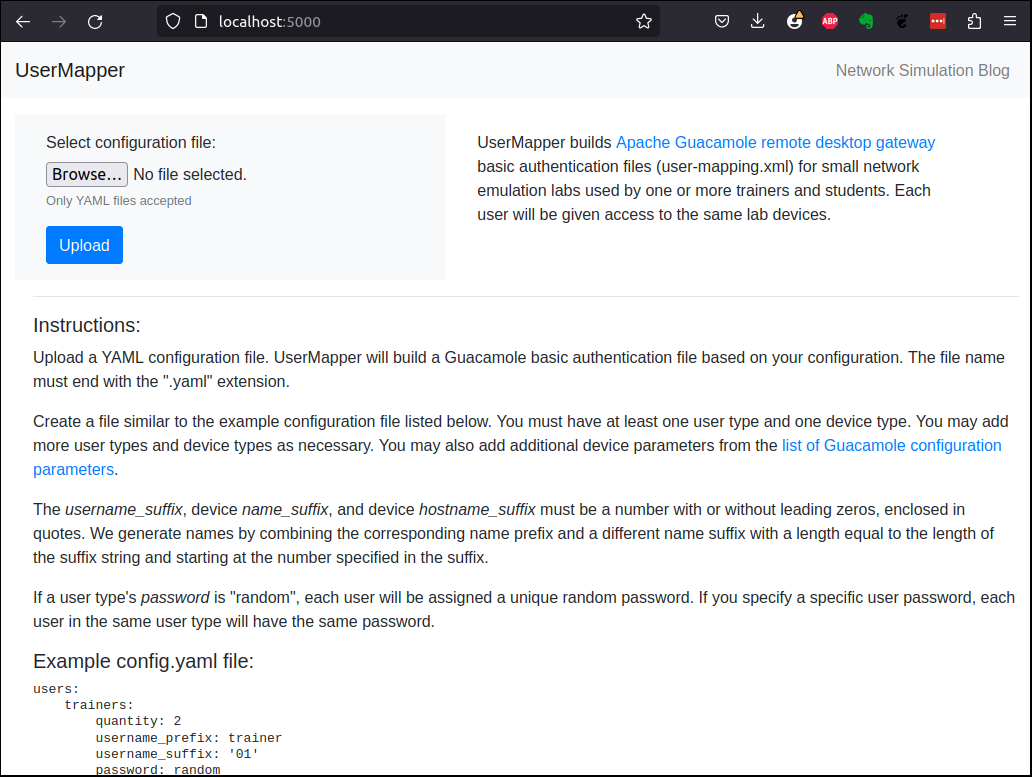
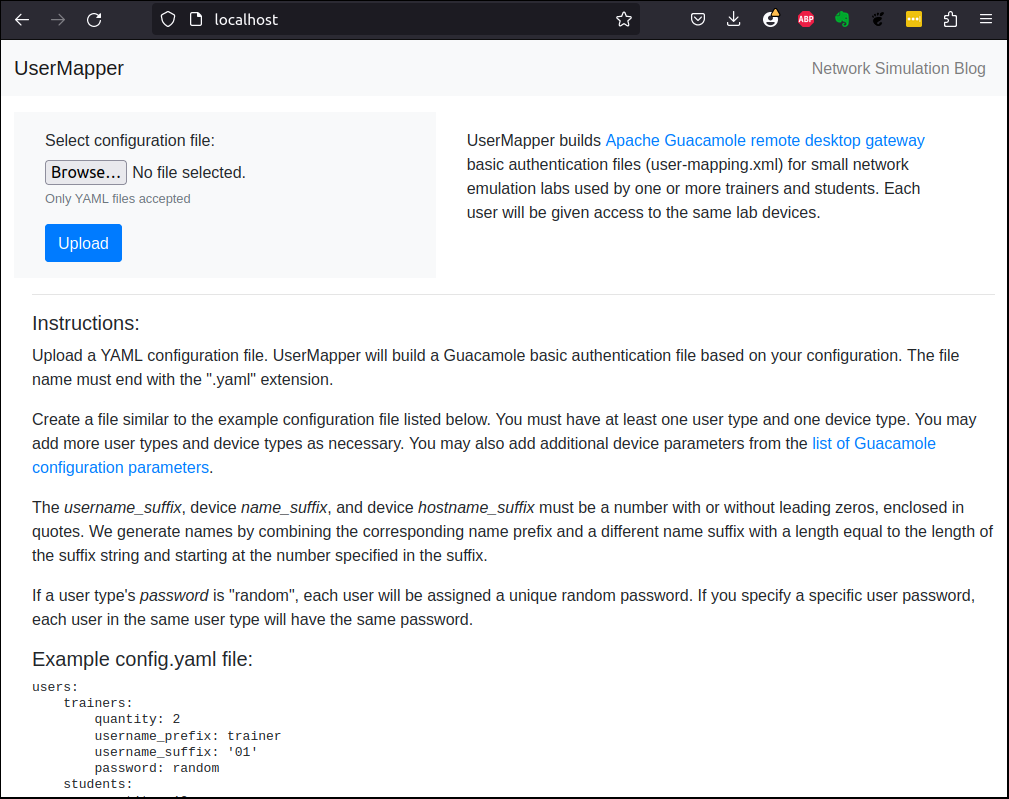
Added more material

diff --git a/content/drafts/usermapper-docker-deploy/python-docker-deploy.md b/content/drafts/usermapper-docker-deploy/python-docker-deploy.md
@@ -1,36 +1,49 @@
 title: Use Docker to Test and Deploy Python Web Apps
 slug: python-web-docker-deploy
 summary: Use Docker to test apps on your local PC and then use Docker to easily deploy them to a virtual private server (VPS)
-date: 2023-09-31
-modified: 2023-09-31
+date: 2023-09-30
+modified: 2023-09-30
 category: Docker
 <!--status: Published-->
 
-Take an existing Flask application, then test and deploy it using Docker containers.
+Using Docker containers to test an existing Flask application locally, and then use Docker to deploy it to a remote server.
 
-First get the first version of my [usermapper-web application]({filename}\articles\003-flask-web-app-tutorial\flask-web-app-tutorial.md) from Github
+## Test the existing web app
+
+First, get the first version of my [usermapper-web application]({filename}\articles\003-flask-web-app-tutorial\flask-web-app-tutorial.md) from Github. It's tagged as vesion 0.1 so run the following commands to get the application files.
 
 ```
 $ wget https://github.com/blinklet/usermapper-web/archive/refs/tags/v0.1.tar.gz
 $ tar -xvf v0.1.tar.gz
 ```
 
-Create a virtual environment:
+The application files will be uncompressed into a folder named *usermapper-web-0.1/*.
 
 ```bash
 $ cd usermapper-web-0.1
+$ ls
+application.py
+LICENSE
+README.md
+requirements.txt
+templates
+```
+
+Create a Python virtual environment in the same folder:
+
+```bash
 $ python3 -m venv env
 $ source env/bin/activate
 (env) $
 ```
 
-Install the dependencies
+Install the application's dependencies:
 
 ```bash
 (env) $ pip install -r requirements.txt
 ```
 
-The application needs two more things: a dotenv file and a *downloads* directory. The both the dotenv file and the *downloads* directory must be in the same location as the *application.py* file.
+The application needs two more things: a [dotenv file]({filename}/articles/011-use-environment-variables/use-environment-variables.md) and a *downloads* directory. The both the dotenv file and the *downloads* directory must be in the same location as the *application.py* file.
 
 Create the dotenv file, named *.env*, using your favorite text editor:
 
@@ -56,27 +69,56 @@ $ mkdir downloads
 Run the Flask app
 
 ```
-(env) $ python3 application.py
+(env) $ flask run
 ```
 
+Test the application. Enter the application's URL in a browser window. A Flask app like this should be running on the *localhost* loopback address on TCP port 5000:
+
+```text
+http://localhost:5000
+```
+
+The browser window should show the web app's first page:
+
+![Usermapper Web App running on local PC in development mode]({attach}usermapper-01.png)
+
+For more information about the web app and how to use it, either refer to the instructions on the web page or read [my web app tutorial post]({filename}/articles/003-flask-web-app-tutorial/flask-web-app-tutorial.md).
+
+After you finish testing the *usermapper-web* application, quit the Flask app by typing *CTRL-C* in the terminal window.
+
+And, deactivate the virtual environment:
+
+```bash
+(env) $ deactivate
+```
 
 
 ## Deploy existing application to Docker container
 
-Use Python container?
+
+
+In my webapp tutorial post, I described how to deploy the application to a Microsoft Azure web app service simply by copying a projects files and directories to an Azure web app. That remains a great way to deploy web apps, if you want to use Microsoft Azure's proprietary tools.
+
+In this post, I will show you a more general-purpose way to deploy a web app that will run anywhere, including on a virtual private server (VPS) started on any cloud provider. This requires that you take more responsibility for the way to package your application and for running other services that help serve and secure your application. You will have to add a production-ready WSGI server to your application's environment, add some Docker files in our project directory, and set up production environment variables.
+
+you will copy the application code to a Docker image that can be deployed either to a container running locally or one running on a remote server.
 
 ### Get files and set up virtual environment
 
+Create a new project directory and then copy the *usermapper-web* files into it:
+
 ```bash
-$ git clone https://github.com/blinklet/usermapper-web.git
+$ mkdir ../usermapper-web
+$ cp -r . ../usermapper-web
+$ cd ../usermapper-web
 ```
+
+
 ### Add gunicorn
 
-git tag -a v0.1 cf41112 -m "First development release"
+The current program uses the Flask development server to run the web app. You should not use the Flask development server on a real web deployment. Install a [production-ready WSGI server](https://flask.palletsprojects.com/en/2.3.x/deploying/), like [Gunicorn](https://gunicorn.org/). I like Gunicorn because it is a Python package, is easy to install, and is lightweight. 
 
-
-
-Don't use dev server in web deployment so run gunicorn, Add it to requirements.txt
+To install Gunicorn in the container image, add it to *requirements.txt* file. The contents of the file should now be the same as shown below.
 
 ```text
 wheel
@@ -88,22 +130,24 @@ gunicorn
 git+https://github.com/blinklet/usermapper.git@v0.3#egg=usermapper
 ```
 
-### Create .env file
+### Create a *.env* file
 
-Look at *.env.example* for inspiration
+The Flask frameworks needs some information from its environment so it knows which file to run. You can set environment variables on a server manually or you can store them in a file and access them using the Python *dotenv* package. If you cloned the *usermapper-web* project, you did not get the file, named *.env* that contains the environment variables for my version of the project. I do not keep the file in my repository because it contains a secret key.
+
+Flask uses a secret key, that should not be shared, to help secure functions like reading inputs from Flask forms. To create a random key for yourself, run the following commands. 
 
 ```bash
 $ cd usermapper-web
 $ python3 -c 'import secrets; print(secrets.token_urlsafe(32))'
 ```
 
-Output
+The command requested a random key that is 32 bytes long. It shoud display on your terminal like the one shown below. 
 
 ```
 D9Oci7p2l9bqM8_uChJKA09tqXFOK7Db-FxKr6rGoDk
 ```
 
-Copy the output and create *.env* file
+Copy the secrte key and add it to your *.env* file. The new file should look like the following:
 
 ```python
 FLASK_APP=application
@@ -111,8 +155,15 @@ FLASK_ENV=production
 SECRET_KEY=D9Oci7p2l9bqM8_uChJKA09tqXFOK7Db-FxKr6rGoDk
 ```
 
-Docker image
+It's a good idea to create an example dotenv file so, when you revisit your project in teh future, you can remember which environment variables you need. If you like, copy the *.env* file to a file named *dotenv.example* and replace the secret key with some dummy data.
 
+### Create the Dockerfile
+
+To create a Docker image that contains the Python packages we need and the *usermapper-web* application, write a Dockerfile that contains the commands needed to build the image. If you need more information, please see my previous post where I cover [building a Docker image]({filename}/articles/018-postgresql-docker/postgresql-docker.md).
+
+In the Dockerfile, choose a base image. I chose an official Python image based on the *Alpine* Linux distribution, which is a very lightweight image. Then [document](https://stackoverflow.com/questions/22111060/what-is-the-difference-between-expose-and-publish-in-docker/47594352#47594352) the TCP port that the application expects to use. Create the app's working directory on the container. Copy the files from the current directory on your PC, which contains the Dockerfile and all the application files and directories, to the working directory on the container. Run Linux commands that install software needed by the application. Finally, set the command that the container will run when it starts up.
+
+Create the Dockerfile using your favorite text editor. It's contents should look like those below:
 
 ```dockerfile
 FROM python:alpine
@@ -121,30 +172,70 @@ WORKDIR /app
 COPY . .
 RUN apk update && \
     apk add git && \
-    pip install --no-cache-dir -r requirements.txt && \
-    mkdir ./downloads
+    pip install --no-cache-dir -r requirements.txt
 ENTRYPOINT ["gunicorn", "--bind", "0.0.0.0:8080", "application:app"]
 ```
 
-```bash
-$ docker build -t usermap .
+Save the file and name it *Dockerfile*, which is a default name for a Dockerfile.
+
+### Docker Ignore file
+
+Next, create a *.dockerignore* file that tells Docker which files in the current directory should not be copied to the Docker image when you build it. You want to avoid copying Git repositories, Python cache files, Python virtual enironments, and unneeded project files.
+
+Create a new file in your text editor, name it *.dockerignore*, and add the following contents to it:
+
+```text
+# Git files
+.git
+.gitignore
+
+# Unneeded project files
+.env.example
+README*
+
+# Python files
+__pycache__
+*.pyc
+*.pyo
+*.pyd
+
+# Docker files
+.dockerignore
+Dockerfile
 ```
+
+Note that the *downloads* sub-directory is needed for the application to work correctly. When Docker copies all files to the container, it also copies directories. 
+
+### Build the application image
+
+Build the new image by running the Docker *build* command and pointing it to the current directory (the final "dot" in the command). Tag the new image. I chose to tag my image with the name, *usermap:v1*.
+
+```bash
+$ docker build -t usermap:v1 .
+```
+
+After the build is completed, you should see it in your local images repository:
 
 ```
 $ docker images
 REPOSITORY                       TAG       IMAGE ID       CREATED          SIZE
-usermap                          latest    e80b2504dcab   13 minutes ago   112MB
+usermap                          v1        e80b2504dcab   13 minutes ago   112MB
 postgres                         latest    43677b39c446   7 days ago       412MB
 mcr.microsoft.com/mssql/server   latest    683d523cd395   3 weeks ago      2.9GB
 ```
 
-(Python:Alpine is only 52 MB but I had to add Git. If I properly package *usermapper* and upload it to PyPI, I could avoid installing Git and have an even smaller image. Or, if I copy the usermapper modules into the usermapper-web directory, I get the same effect but I don't want to mix up the two projects)
+Notice how Docker labels what you might think is the image name as the "repository". The real image name is the combination of repository and tag. This will be important later when you want to create a private repository on Docker Hub.
+
+### Test the image
+
+To test that the image was built correctly and that the application will run correctly, create a new container from it. 
 
 ```bash
-$ docker run --detach -rm --network host --port 5000:5000 --name usermap1 usermap
+$ docker run --detach --publish 127.0.0.1:80:8080/tcp --name user1 usermap
 ```
 
-Connect browser to http://localhost:5000
+The new container should start serving the web app, via the Gunicorn WSGI server which includes a basic HTTP server, 
+Connect your browser to http://localhost
 
 ![]({attach}usermapper-01.png)
 

diff --git a/content/articles/003-flask-web-app-tutorial/flask-web-app-tutorial.md b/content/articles/003-flask-web-app-tutorial/flask-web-app-tutorial.md
@@ -1883,7 +1883,7 @@ A browser window will open and prompt you to login. Follow the instructions in t
 
 You already have a *usermapper-web* Git repository on your PC. Use the Azure CLI to deploy your web app to an Azure Web App by following the steps outlined below. 
 
-Deploy the *usermapper-web* web app with the command:
+Deploy the *usermapper-web* web app with the *[az webapp up](https://learn.microsoft.com/en-us/cli/azure/webapp?view=azure-cli-latest#az-webapp-up)* command, which create an Azure webapp and deploys code from the current folder to the webapp. The command also uploads code in subdirectories and empty subdirectories like the *downloads* directory used by the application to the Azure webapp:
 
 ```bash
 (env) $ cd ~/Projects/usermapper-web
